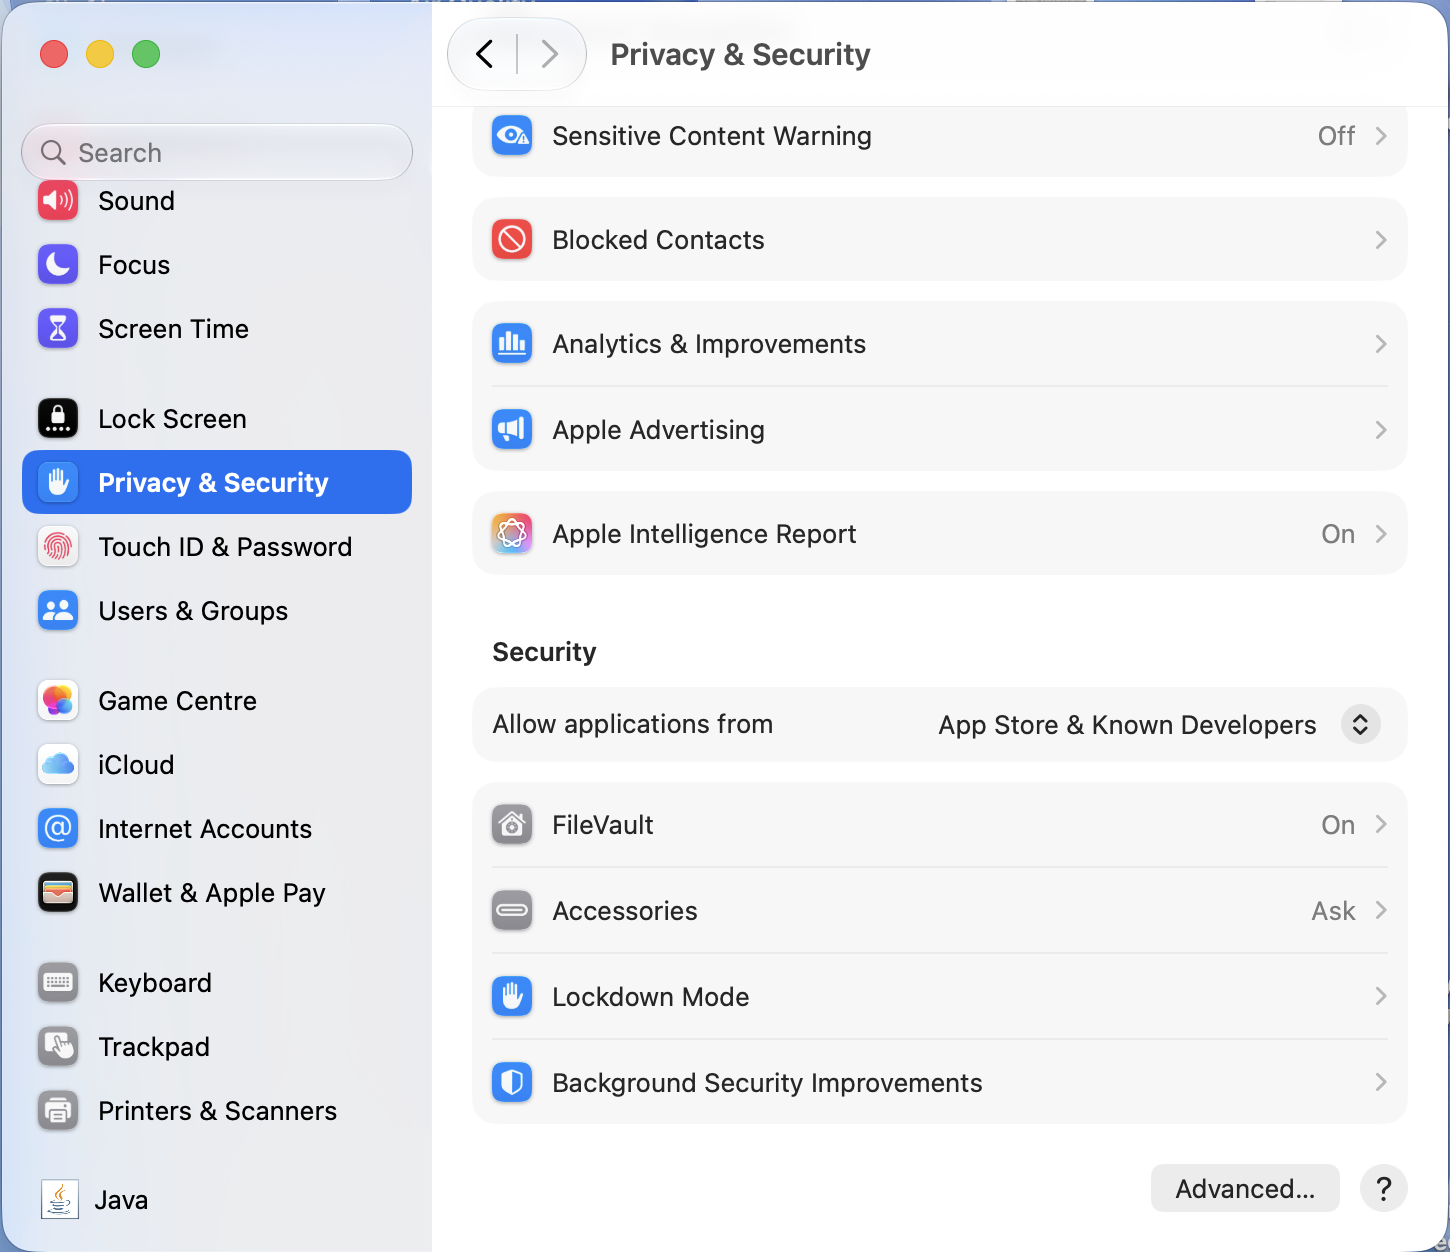
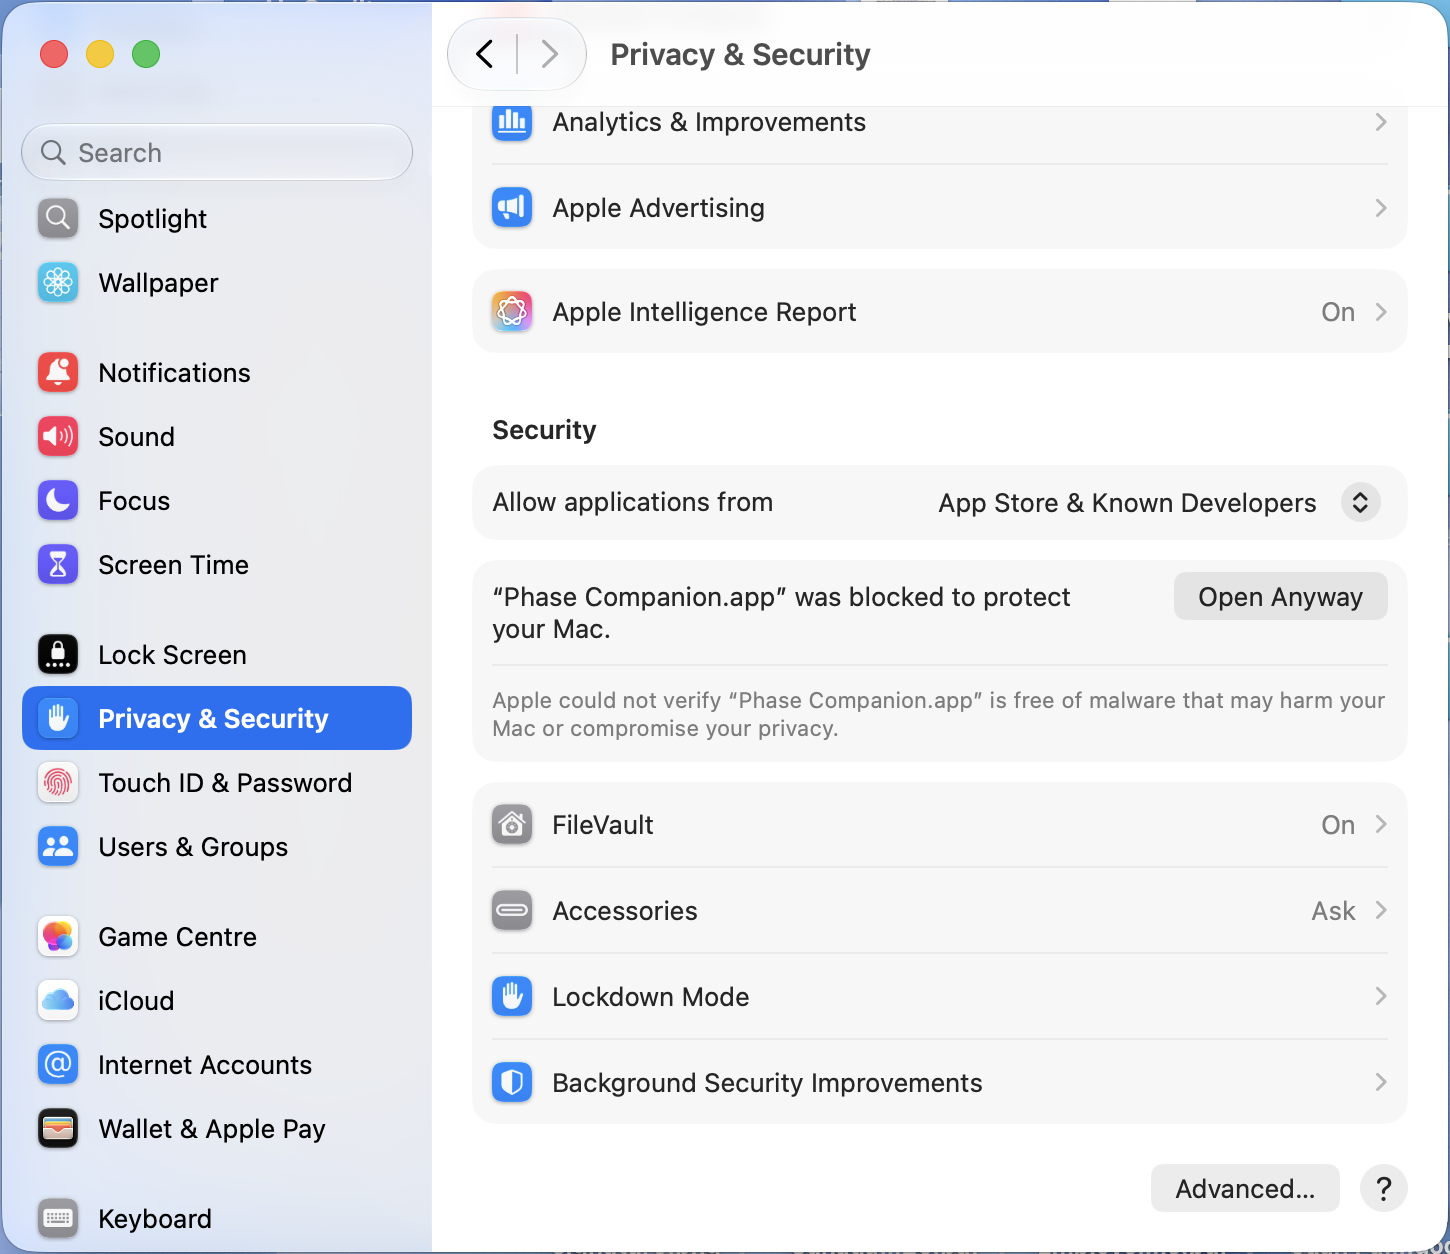
docs: add macOS Gatekeeper screenshots [skip ci]

diff --git a/docs/MACOS_INSTALL.md b/docs/MACOS_INSTALL.md
@@ -11,6 +11,9 @@ program, so macOS requires a one-time manual approval.
 3. Drag **Phase Companion** into the **Applications** folder.
 4. Open Phase Companion from Applications once. macOS may block the first
    launch because the developer cannot be verified.
+
+![The macOS warning shown when Phase Companion cannot be verified](images/macos-unverified-app-warning.png)
+
 5. Open **System Settings**, select **Privacy & Security**, and scroll to the
    **Security** section.
 6. Click **Open Anyway** for Phase Companion, authenticate with your Mac
